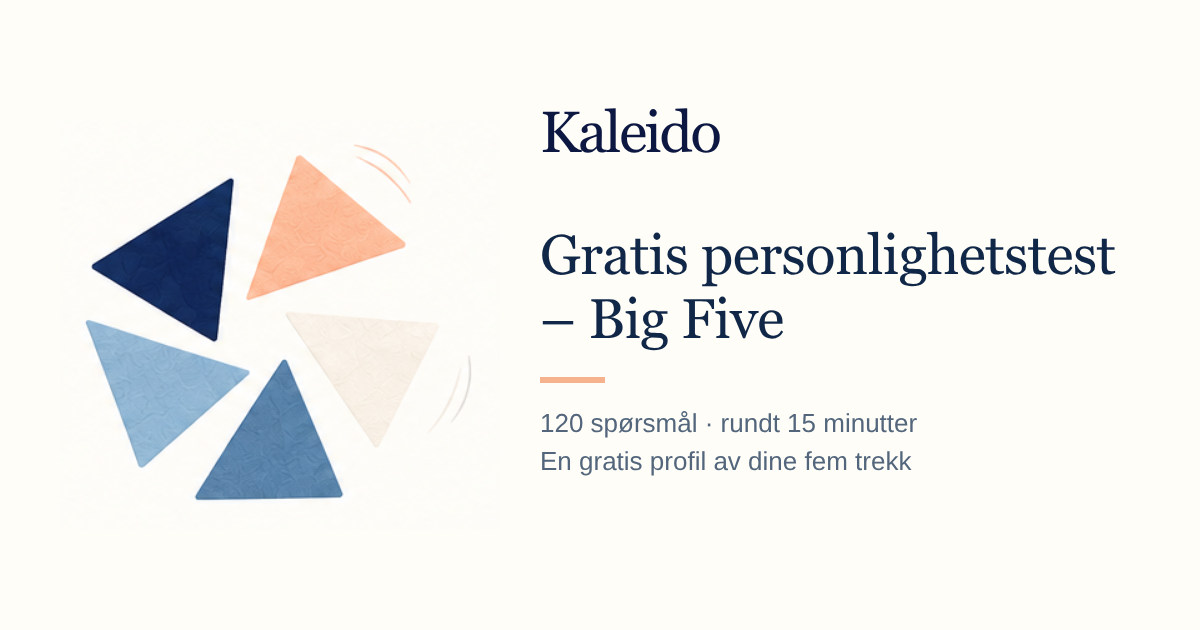
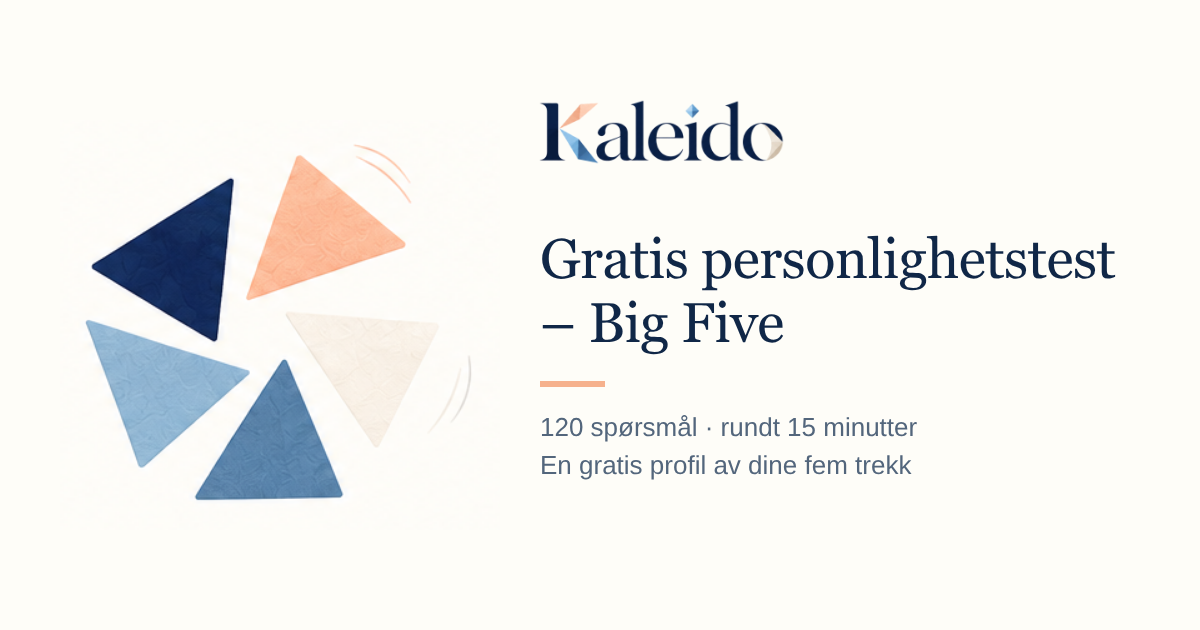
New Kaleido wordmark in the header, footer, sign-in, offer sheet, share video and share images
Rune's new wordmark (faceted K, diamond i-dot, sand facet on the o) replaces the
Georgia text and the pinwheel beside it. The background is removed from his JPG
and the image cropped (kaleido-wordmark.webp for the app and video, a 2x PNG for
the share images). The pinwheel stays as app icon, loading animation and trait
navigation.

Claude-Session: https://claude.ai/code/session_01M5HHnEW34Vcqh6meLJ6wGL

diff --git a/app/ui.js b/app/ui.js
@@ -31,7 +31,7 @@ const esc=v=>String(v??'').replace(/[&<>"']/g,c=>({'&':'&amp;','<':'&lt;','>':'&
 const names={O:()=>tr('Openness','Åpenhet'),C:()=>tr('Conscientiousness','Planmessighet'),E:()=>tr('Extraversion','Ekstroversjon'),A:()=>tr('Agreeableness','Medmenneskelighet'),N:()=>tr('Emotional reactivity','Følelsesmessig reaktivitet')};
 const order=['O','C','E','A','N'];
 const anchors=()=>[tr('Very inaccurate','Stemmer svært dårlig'),tr('Moderately inaccurate','Stemmer nokså dårlig'),tr('Neither accurate nor inaccurate','Stemmer verken godt eller dårlig'),tr('Moderately accurate','Stemmer nokså godt'),tr('Very accurate','Stemmer svært godt')];
-const logo='<span class="mark" aria-hidden="true"><i></i><i></i><i></i><i></i><i></i></span>';
+const wordmark='<img class="wordmark" src="assets/design/kaleido-wordmark.webp" alt="" width="562" height="150">';
 const button=(label,url,secondary=false)=>`<a class="button${secondary?' secondary':''}" href="${url}">${label}<span aria-hidden="true">→</span></a>`;
 function save(){try{sessionStorage.setItem(KEY,JSON.stringify({answers,index}));}catch{storageAvailable=false;const status=document.querySelector('#backup-status');if(status)status.textContent=tr('This browser cannot save progress. Download an answer file before leaving.','Nettleseren kan ikke lagre fremdrift. Last ned en svarfil før du forlater siden.');}document.querySelector('#backup-save')?.removeAttribute('disabled');}
 function downloadAnswers(){
@@ -62,7 +62,7 @@ function name(d){return content.domains?.[d.code]?.name||names[d.code]?.()||d.na
 function scale(d){return `<div class="score-row"><div class="score-top"><strong>${esc(name(d))}</strong><span>${Number(d.mean).toFixed(2)} / 5</span></div><div class="track" role="img" aria-label="${esc(name(d))}: ${Number(d.mean).toFixed(2)} / 5"><span style="width:${Math.max(0,Math.min(100,d.position))}%"></span></div><div class="score-scale"><span>${tr('Lower endorsement','Lavere tilslutning')}</span><span>${tr('Higher endorsement','Høyere tilslutning')}</span></div></div>`;}
 function notice(){return demo?`<div class="notice demo">${tr('Synthetic example — these are invented answers, not your personal results.','Syntetisk eksempel — svarene er oppdiktet og er ikke dine personlige resultater.')}</div>`:'';}
 function interpretation(){return report?.norms?tr('Each bar shows a percentile: roughly where your score sits among US online respondents who took the English test, with equal scores shared in the ranking. A percentile is not a percentage of a trait, a diagnosis, or a measure of how certain the result is. The words lower, middle and higher follow the percentile: below 30 is lower, above 70 is higher. Traits are tendencies, and context matters.','Hver stolpe viser en persentil: omtrent hvor skåren din ligger blant amerikanske nettdeltakere som tok den engelske testen, der like skårer deles i rangeringen. En persentil er ikke prosent av et trekk, en diagnose eller et mål på hvor sikker målingen er. Ordene lavere, midt og høyere følger persentilen: under 30 er lavere, over 70 er høyere. Trekk er tendenser, og situasjonen betyr noe.'):tr('These scales describe your answers, not your rank among other people. The bar maps the mean from 1 to 5 onto its possible range; it is not a percentile. Traits are tendencies, and context matters.','Skalaene beskriver svarene dine, ikke plasseringen din sammenlignet med andre. Stolpen viser gjennomsnittet ditt på skalaen fra 1 til 5; den er ikke en persentil. Trekk er tendenser, og situasjonen betyr noe.');}
-function updateShell(){document.documentElement.lang=language==='no'?'nb':'en';document.title=tr('Free Big Five personality test – 120 questions | Kaleido','Gratis personlighetstest (Big Five) – 120 spørsmål | Kaleido');document.querySelector('nav').innerHTML=`<a href="#method">${tr('The science','Faglig grunnlag')}</a><a href="#privacy">${tr('Privacy','Personvern')}</a>${account.enabled()||devMode()||answersComplete()?`<a href="#account">${tr('My profile','Min profil')}</a>`:''}<a class="small-button" href="#test">${tr('Take the test','Ta testen')} →</a><a class="d-exit" href="#home">${tr('Exit the test','Avslutt testen')}</a>`;document.querySelector('.skip').textContent=tr('Skip to content','Hopp til innhold');document.querySelector('footer').innerHTML=`<a class="footer-brand" href="#home" aria-label="Kaleido">${logo}<b>Kaleido</b> <span>${tr('Your personality, in context.','Personligheten din, i sammenheng.')}</span></a><div><label>${tr('Language','Språk')} <select id="language" aria-label="${tr('Language','Språk')}"><option value="en" ${language==='en'?'selected':''}>English</option><option value="no" ${language==='no'?'selected':''}>Norsk bokmål</option></select></label><label>${tr('Country','Land')} <select id="country" aria-label="${tr('Country','Land')}"><option value="US" ${country==='US'?'selected':''}>USA · USD</option><option value="NO" ${country==='NO'?'selected':''}>Norge · NOK</option></select></label></div><div><button class="text-button" id="backup-save" ${Object.keys(answers).length?'':'disabled'}>${tr('Save my answers to a file','Lagre svarene mine i en fil')}</button><button class="text-button" id="backup-open">${tr('Restore saved answers','Hent lagrede svar')}</button><input id="backup-restore" type="file" accept=".json,application/json" hidden><p id="backup-status" role="status">${esc(backupMessage)||(storageAvailable?'':tr('Progress cannot be saved in this tab. Download an answer file before leaving.','Fremdrift kan ikke lagres i fanen. Last ned en svarfil før du forlater siden.'))}</p><a href="#method">${tr('Method & sources','Metode og kilder')}</a><a href="#privacy">${tr('Privacy','Personvern')}</a><button id="clear-data" class="text-button">${tr('Clear my answers','Slett svarene mine')}</button></div><p>${tr('Preview. Country and language initially follow your browser language; change them independently above. No location tracking.','Forhåndsvisning. Land og språk velges først ut fra nettleserspråket; du kan endre dem hver for seg ovenfor. Ingen stedssporing.')}</p>`;document.querySelector('#backup-open').onclick=()=>document.querySelector('#backup-restore').click();document.querySelector('#backup-save').onclick=downloadAnswers;document.querySelector('#backup-restore').onchange=e=>restoreAnswers(e.target.files[0]);const controls=document.createElement('div');controls.className='locale-bar';controls.innerHTML=`<label>${tr('Language','Språk')} <select id="header-language" aria-label="${tr('Language','Språk')}"><option value="en" ${language==='en'?'selected':''}>English</option><option value="no" ${language==='no'?'selected':''}>Norsk bokmål</option></select></label><label>${tr('Country','Land')} <select id="header-country" aria-label="${tr('Country','Land')}"><option value="US" ${country==='US'?'selected':''}>USA · USD</option><option value="NO" ${country==='NO'?'selected':''}>Norge · NOK</option></select></label>`;document.querySelector('.locale-bar')?.remove();document.querySelector('header').append(controls);document.querySelector('.menu-toggle')?.remove();const head=document.querySelector('header');head.classList.remove('menu-open');const toggle=document.createElement('button');toggle.type='button';toggle.className='menu-toggle';toggle.setAttribute('aria-expanded','false');toggle.setAttribute('aria-label',tr('Menu','Meny'));toggle.innerHTML='<span></span><span></span><span></span>';toggle.onclick=()=>toggle.setAttribute('aria-expanded',head.classList.toggle('menu-open'));head.append(toggle);document.querySelector('#header-language').onchange=async e=>{language=e.target.value;storePrefs();await load();};document.querySelector('#header-country').onchange=e=>{country=e.target.value;storePrefs();render(false);};document.querySelector('#language').onchange=async e=>{language=e.target.value;storePrefs();await load();};document.querySelector('#country').onchange=e=>{country=e.target.value;storePrefs();render(false);};document.querySelector('#clear-data').onclick=()=>{if(confirm(tr('Delete all your answers and results from this tab?','Slette alle svarene og resultatene dine fra denne fanen?'))){restoreToken++;answerToken++;busy=false;backupMessage='';answers={};index=0;report=null;demo=false;try{sessionStorage.removeItem(KEY);sessionStorage.removeItem(STEPS);}catch{}clearLife();clearCareer();location.hash='home';render();}};}
+function updateShell(){document.documentElement.lang=language==='no'?'nb':'en';document.title=tr('Free Big Five personality test – 120 questions | Kaleido','Gratis personlighetstest (Big Five) – 120 spørsmål | Kaleido');document.querySelector('nav').innerHTML=`<a href="#method">${tr('The science','Faglig grunnlag')}</a><a href="#privacy">${tr('Privacy','Personvern')}</a>${account.enabled()||devMode()||answersComplete()?`<a href="#account">${tr('My profile','Min profil')}</a>`:''}<a class="small-button" href="#test">${tr('Take the test','Ta testen')} →</a><a class="d-exit" href="#home">${tr('Exit the test','Avslutt testen')}</a>`;document.querySelector('.skip').textContent=tr('Skip to content','Hopp til innhold');document.querySelector('footer').innerHTML=`<a class="footer-brand" href="#home" aria-label="Kaleido">${wordmark} <span>${tr('Your personality, in context.','Personligheten din, i sammenheng.')}</span></a><div><label>${tr('Language','Språk')} <select id="language" aria-label="${tr('Language','Språk')}"><option value="en" ${language==='en'?'selected':''}>English</option><option value="no" ${language==='no'?'selected':''}>Norsk bokmål</option></select></label><label>${tr('Country','Land')} <select id="country" aria-label="${tr('Country','Land')}"><option value="US" ${country==='US'?'selected':''}>USA · USD</option><option value="NO" ${country==='NO'?'selected':''}>Norge · NOK</option></select></label></div><div><button class="text-button" id="backup-save" ${Object.keys(answers).length?'':'disabled'}>${tr('Save my answers to a file','Lagre svarene mine i en fil')}</button><button class="text-button" id="backup-open">${tr('Restore saved answers','Hent lagrede svar')}</button><input id="backup-restore" type="file" accept=".json,application/json" hidden><p id="backup-status" role="status">${esc(backupMessage)||(storageAvailable?'':tr('Progress cannot be saved in this tab. Download an answer file before leaving.','Fremdrift kan ikke lagres i fanen. Last ned en svarfil før du forlater siden.'))}</p><a href="#method">${tr('Method & sources','Metode og kilder')}</a><a href="#privacy">${tr('Privacy','Personvern')}</a><button id="clear-data" class="text-button">${tr('Clear my answers','Slett svarene mine')}</button></div><p>${tr('Preview. Country and language initially follow your browser language; change them independently above. No location tracking.','Forhåndsvisning. Land og språk velges først ut fra nettleserspråket; du kan endre dem hver for seg ovenfor. Ingen stedssporing.')}</p>`;document.querySelector('#backup-open').onclick=()=>document.querySelector('#backup-restore').click();document.querySelector('#backup-save').onclick=downloadAnswers;document.querySelector('#backup-restore').onchange=e=>restoreAnswers(e.target.files[0]);const controls=document.createElement('div');controls.className='locale-bar';controls.innerHTML=`<label>${tr('Language','Språk')} <select id="header-language" aria-label="${tr('Language','Språk')}"><option value="en" ${language==='en'?'selected':''}>English</option><option value="no" ${language==='no'?'selected':''}>Norsk bokmål</option></select></label><label>${tr('Country','Land')} <select id="header-country" aria-label="${tr('Country','Land')}"><option value="US" ${country==='US'?'selected':''}>USA · USD</option><option value="NO" ${country==='NO'?'selected':''}>Norge · NOK</option></select></label>`;document.querySelector('.locale-bar')?.remove();document.querySelector('header').append(controls);document.querySelector('.menu-toggle')?.remove();const head=document.querySelector('header');head.classList.remove('menu-open');const toggle=document.createElement('button');toggle.type='button';toggle.className='menu-toggle';toggle.setAttribute('aria-expanded','false');toggle.setAttribute('aria-label',tr('Menu','Meny'));toggle.innerHTML='<span></span><span></span><span></span>';toggle.onclick=()=>toggle.setAttribute('aria-expanded',head.classList.toggle('menu-open'));head.append(toggle);document.querySelector('#header-language').onchange=async e=>{language=e.target.value;storePrefs();await load();};document.querySelector('#header-country').onchange=e=>{country=e.target.value;storePrefs();render(false);};document.querySelector('#language').onchange=async e=>{language=e.target.value;storePrefs();await load();};document.querySelector('#country').onchange=e=>{country=e.target.value;storePrefs();render(false);};document.querySelector('#clear-data').onclick=()=>{if(confirm(tr('Delete all your answers and results from this tab?','Slette alle svarene og resultatene dine fra denne fanen?'))){restoreToken++;answerToken++;busy=false;backupMessage='';answers={};index=0;report=null;demo=false;try{sessionStorage.removeItem(KEY);sessionStorage.removeItem(STEPS);}catch{}clearLife();clearCareer();location.hash='home';render();}};}
 function storePrefs(){try{localStorage.setItem(PREF,JSON.stringify({language,country}));}catch{}}
 async function loadNorms(){try{const r=await fetch('data/norms-us.json');return r.ok?await r.json():null;}catch{return null;}}
 async function load(){const token=++loadToken;try{const paths=language==='no'?['data/questions-no.json','data/report-content-no.json']:['data/questions.json','data/report-content.json'];const data=await Promise.all(paths.map(async p=>{const r=await fetch(p);if(!r.ok)throw Error(p);return r.json();}));if(norms===undefined)norms=await loadNorms();if(token!==loadToken)return;questions=data[0];content=data[1];if(questions.length!==120)throw Error('Expected 120 questions');answers=Object.fromEntries(Object.entries(answers).filter(([k,v])=>questions.some(q=>String(q.id)===k)&&Number.isInteger(v)&&v>=1&&v<=5));index=Math.min(Math.max(index,0),119);if(report)calculate(demo);render();}catch(e){if(token!==loadToken)return;main.innerHTML=`<div class="error"><h1>${tr('A small interruption','En liten avbrytelse')}</h1><p>${tr('The assessment could not load. Please serve the app through its local web server and try again. Your existing answers have not been cleared.','Testen kunne ikke lastes. Åpne appen gjennom den lokale nettserveren og prøv igjen. Lagrede svar er ikke slettet.')}</p><button class="button" id="retry">${tr('Try again','Prøv igjen')}</button></div>`;document.querySelector('#retry').onclick=load;console.error(e);}}
@@ -370,7 +370,7 @@ function openOfferSheet(chosen='plus'){document.querySelector('dialog.d-osheet')
   const amt=id=>`<span class="d-opay-amt">${tiers.find(t=>t.id===id).price}</span>`;
   const tier=t=>`<label class="d-ocard d-otier is-${t.id}"><input type="radio" name="osheet-tier" value="${t.id}" data-href="${t.href}" ${t.id===chosen?'checked':''}>${t.flag?`<p class="d-offer-recommended">${t.flag}</p>`:''}<img class="d-ocard-piece" src="assets/design/logo-piece-${t.piece}.webp" alt="" aria-hidden="true"><span class="d-otier-check" aria-hidden="true"></span><span class="d-otier-text"><span class="d-otier-title">${t.title}</span><ul>${t.lines.map(l=>`<li>${l}</li>`).join('')}</ul></span><span class="d-otier-side"><span class="d-ocard-price">${t.price}</span><button type="button" class="d-otier-more" aria-expanded="false" aria-controls="otier-all-${t.id}" aria-label="${tr('Everything included','Alt som er med')}: ${t.title}"><span class="d-gem-plus" aria-hidden="true"></span></button></span><ul class="d-otier-all" id="otier-all-${t.id}" hidden>${t.more.map(l=>`<li>${l}</li>`).join('')}</ul></label>`;
   dlg.innerHTML=`<div class="d-osheet-box"><button type="button" class="d-osheet-close" aria-label="${tr('Close','Lukk')}"><span aria-hidden="true">×</span></button>
-    <p class="d-osheet-brand" aria-hidden="true"><span class="d-osheet-logo"></span><b>Kaleido</b></p><h2 id="osheet-title">${tr('Choose your report','Velg rapporten din')}</h2>${offerTeaser()}
+    <p class="d-osheet-brand" aria-hidden="true">${wordmark}</p><h2 id="osheet-title">${tr('Choose your report','Velg rapporten din')}</h2>${offerTeaser()}
     <div class="d-osplit"><div class="d-otiers" role="radiogroup" aria-label="${tr('Report','Rapport')}">${tiers.map(tier).join('')}</div>
     <div class="d-opay"><p class="d-opay-h">${tr('Pay with','Betal med')}</p>${methods.map(([label,k])=>`<a class="d-opay-btn is-${k}" href="${tiers.find(t=>t.id===chosen).href}">${label} <span class="d-opay-go">${amt(chosen)}<span aria-hidden="true">→</span></span></a>`).join('')}<p class="d-osheet-terms">${tr('One payment. No subscription.','Én betaling. Ingen abonnement.')}</p>${country==='NO'?`<p class="d-opay-consent">${tr('The report opens right away. By paying you agree to this and accept that the right of withdrawal then lapses.','Rapporten åpnes med en gang. Ved å betale samtykker du til det og godtar at angreretten da faller bort.')}</p>`:''}<p class="d-opay-secure">${tr('Secure payment with','Sikker betaling med')} ${PAY_MARKS.stripe}<span>Stripe</span></p></div></div>
     <p class="d-osheet-foot"><a href="#offer" data-full-offer>${tr('See everything included','Se alt som er med')}</a><span>${tr('Preview: opens for free.','Forhåndsvisning: åpnes gratis.')}</span></p></div>`;
@@ -526,7 +526,7 @@ const askSignIn=()=>account.enabled()?accountReady&&!accountUser:devMode();
 // Routes that show the person's own results. With sign-in connected they need an account; the example report (#demo) does not.
 const gatedRoute=route=>['loading','results','offer','report','opening'].includes(route)||route.startsWith('report/')||route.startsWith('opening/')||route.startsWith('p=');
 const signInGate=route=>account.enabled()&&!demo&&!accountUser&&gatedRoute(route);
-function signInStep(){main.innerHTML=`<section class="page narrow d-signin-step"><div class="d-signin-step-brand" aria-hidden="true"><span class="d-signin-step-logo"></span><b>Kaleido</b></div><p class="d-signin-step-kicker">${tr('Test complete','Testen er fullført')}</p><h1>${tr('Save your profile','Lagre profilen din')}</h1><p class="lead">${tr('Sign in to access your results on any device.','Logg inn for å se resultatene dine på alle enheter.')}</p>${signInButtons('save','loading')}${account.enabled()?'':`<p class="d-signin-optional"><a href="#loading">${tr('Preview only: continue without signing in','Bare forhåndsvisning: fortsett uten å logge inn')}</a></p>`}<a class="d-signin-privacy" href="#privacy">${tr('Privacy','Personvern')}</a></section>`;}
+function signInStep(){main.innerHTML=`<section class="page narrow d-signin-step"><div class="d-signin-step-brand" aria-hidden="true">${wordmark}</div><p class="d-signin-step-kicker">${tr('Test complete','Testen er fullført')}</p><h1>${tr('Save your profile','Lagre profilen din')}</h1><p class="lead">${tr('Sign in to access your results on any device.','Logg inn for å se resultatene dine på alle enheter.')}</p>${signInButtons('save','loading')}${account.enabled()?'':`<p class="d-signin-optional"><a href="#loading">${tr('Preview only: continue without signing in','Bare forhåndsvisning: fortsett uten å logge inn')}</a></p>`}<a class="d-signin-privacy" href="#privacy">${tr('Privacy','Personvern')}</a></section>`;}
 /** The sign-in providers switched on, as words: "Google", "Google or Apple", "Google, Apple or X". */
 function signInVia(){const n=account.providers().map(p=>p.label);return n.length<2?n.join(''):`${n.slice(0,-1).join(', ')} ${tr('or','eller')} ${n.at(-1)}`;}
 function accountPage(){main.innerHTML=`<article class="page narrow d-account-page"><p class="eyebrow">${tr('My profile','Min profil')}</p><h1>${tr('Your profile','Profilen din')}</h1><p class="lead">${tr(`Sign in with ${signInVia()} or by email to keep your profile and open it again on any device.`,`Logg inn med ${signInVia()} eller e-post for å ta vare på profilen og åpne den igjen på alle enheter.`)}</p><section class="d-account-panel" data-account="page" aria-live="polite"></section>${profileTools()}</article>`;paintAccount();document.querySelector('#profile-pdf')?.addEventListener('click',()=>{printNext=true;location.hash='report/overview';});document.querySelector('#profile-save')?.addEventListener('click',downloadAnswers);document.querySelector('#email-form')?.addEventListener('submit',sendProfile);const to=document.querySelector('#email-to');if(to&&accountUser?.email)to.value=accountUser.email;}

diff --git a/app/design.css b/app/design.css
@@ -2,14 +2,12 @@
 :root{--title:#0c1742;--sky:#e6f0f8;--warm:#fdeee5}
 .sr-only{position:absolute;width:1px;height:1px;overflow:hidden;clip:rect(0 0 0 0);white-space:nowrap}
 
-/* Logo: textured mark (assets/design/logo-mark.webp) beside a live Georgia wordmark */
+/* Logo: the «Kaleido» wordmark image (assets/design/kaleido-wordmark.webp); the pinwheel mark stays as app icon and loading animation */
 .brand{display:flex!important;align-items:center;gap:12px;width:auto!important;height:62px!important;overflow:visible!important;text-decoration:none}
-.brand .mark{display:block;flex:none;background:url('assets/design/logo-mark.webp') center/contain no-repeat!important;mix-blend-mode:normal!important;transform:none!important;width:56px!important;height:56px!important}
-.brand b{display:inline!important;font:400 46px/1 Georgia,'Times New Roman',serif;letter-spacing:-.04em;color:var(--title)}
+.brand .wordmark,.footer-brand .wordmark,.d-signin-step-brand .wordmark,.d-osheet-brand .wordmark{display:block;flex:none;width:auto;max-width:none}.brand .wordmark{height:50px}
 .footer-brand{display:flex!important;align-items:center;gap:10px;width:auto!important;height:52px!important;overflow:visible!important}
-.footer-brand .mark{display:block;flex:none;background:url('assets/design/logo-mark.webp') center/contain no-repeat!important;mix-blend-mode:normal!important;transform:none!important;width:44px!important;height:44px!important}
-.footer-brand b{display:inline!important;font:400 34px/1 Georgia,'Times New Roman',serif;letter-spacing:-.04em;color:var(--title)}
-@media(max-width:700px){.brand{height:49px!important;gap:9px}.brand .mark{width:44px!important;height:44px!important}.brand b{font-size:36px}}
+.footer-brand .wordmark{height:40px}
+@media(max-width:700px){.brand{height:49px!important}.brand .wordmark{height:40px}}
 
 /* Header while answering: only "Exit the test", as in the design */
 .d-exit{display:none}
@@ -1035,8 +1033,7 @@ details[open] .d-acc-icon::after{transform:rotate(0)}
 /* Sign-in step after question 120, copied from Rune's chosen mockup (2026-10-16): logo + wordmark, one Google button, quiet skip */
 .d-signin-step{text-align:center;padding-top:64px}
 .d-signin-step-brand{display:flex;align-items:center;justify-content:center;gap:12px;margin:0 0 26px}
-.d-signin-step-logo{display:block;width:52px;height:52px;background:url('assets/design/logo-mark.webp') center/contain no-repeat}
-.d-signin-step-brand b{font:400 44px/1 Georgia,'Times New Roman',serif;letter-spacing:-.04em;color:var(--title)}
+.d-signin-step-brand .wordmark{height:60px}
 .d-signin-step-kicker{margin:0 0 14px;font-size:17px;color:#4f6c8a}
 .d-signin-step h1{font-size:clamp(40px,4.4vw,60px);margin:0 auto 18px}
 .d-signin-step .lead{max-width:560px;margin:0 auto;font-size:20px;color:#4f6c8a}
@@ -1050,7 +1047,7 @@ details[open] .d-acc-icon::after{transform:rotate(0)}
 .d-signin-optional a{color:inherit;text-decoration:none}
 .d-signin-optional a:hover{text-decoration:underline;text-underline-offset:3px}
 .d-signin-privacy{display:inline-block;margin:96px 0 10px;font-size:17px;color:#4f6c8a;text-underline-offset:4px}
-@media(max-width:700px){.d-signin-step{padding-top:40px}.d-signin-step-brand{gap:10px;margin-bottom:22px}.d-signin-step-logo{width:44px;height:44px}.d-signin-step-brand b{font-size:38px}.d-signin-step h1{font-size:40px}.d-signin-step .lead{font-size:17px}.d-signin-step .d-signin{margin:30px auto 26px}.d-signin-step .d-signin-btn{font-size:17px}.d-signin-privacy{margin-top:56px}}
+@media(max-width:700px){.d-signin-step{padding-top:40px}.d-signin-step-brand{margin-bottom:22px}.d-signin-step-brand .wordmark{height:50px}.d-signin-step h1{font-size:40px}.d-signin-step .lead{font-size:17px}.d-signin-step .d-signin{margin:30px auto 26px}.d-signin-step .d-signin-btn{font-size:17px}.d-signin-privacy{margin-top:56px}}
 
 /* Share button on the video itself (TikTok/Instagram style), always visible. */
 .d-share-frame{position:relative}
@@ -1901,9 +1898,8 @@ footer select,header.menu-open .locale-bar select,.d-account-page select{border:
 }
 /* The Kaleido logo at the top of the offer sheet (Rune 2026-10-18). */
 .d-osheet-brand{display:flex;align-items:center;justify-content:center;gap:10px;margin:0 0 6px}
-.d-osheet-logo{display:block;width:40px;height:40px;background:url('assets/design/logo-mark.webp') center/contain no-repeat}
-.d-osheet-brand b{font:400 30px/1 Georgia,serif;letter-spacing:-.03em;color:var(--title)}
-@media(max-width:700px){.d-osheet-brand{margin-bottom:4px}.d-osheet-logo{width:32px;height:32px}.d-osheet-brand b{font-size:25px}}
+.d-osheet-brand .wordmark{height:40px}
+@media(max-width:700px){.d-osheet-brand{margin-bottom:4px}.d-osheet-brand .wordmark{height:34px}}
 /* Payment brand marks on the methods (Rune 2026-10-18). */
 .d-opay-btn .d-paymark{width:auto;height:22px}
 .d-opay-btn.is-apple .d-paymark,.d-opay-btn.is-google .d-paymark{height:30px;margin:-4px 0}

diff --git a/app/index.html b/app/index.html
@@ -1,2 +1,2 @@
 <!doctype html>
-<html lang="en"><head><link rel="icon" href="assets/icons/favicon.ico" sizes="any"><link rel="icon" href="assets/icons/favicon.svg" type="image/svg+xml"><link rel="apple-touch-icon" href="assets/icons/apple-touch-icon.png"><meta charset="utf-8"><meta name="viewport" content="width=device-width, initial-scale=1"><meta name="theme-color" content="#102747"><title>Free Big Five personality test – 120 questions | Kaleido</title><meta name="description" content="Take a free Big Five personality test: 120 research-based questions, about 15 minutes, and a clear profile of your five traits. No sign-up needed."><link rel="stylesheet" href="styles.css"><link rel="stylesheet" href="design.css"><link rel="stylesheet" href="question.css"><script src="config.js"></script><script type="module" src="ui.js"></script></head><body><a class="skip" href="#main">Skip to content</a><header><a href="#home" class="brand" aria-label="Kaleido"><span class="mark" aria-hidden="true"><i></i><i></i><i></i><i></i><i></i></span><b>Kaleido</b></a><nav aria-label="Main navigation"><a href="#method">The science</a><a href="#privacy">Privacy</a><a class="small-button" href="#test">Take the test <span aria-hidden="true">→</span></a></nav></header><main id="main" tabindex="-1"><article class="page narrow seo-intro"><p class="eyebrow">Kaleido</p><h1>A free Big Five personality test</h1><p>Answer 120 research-based questions (IPIP-NEO-120) in about 15 minutes. You get a free profile of the five traits – openness, conscientiousness, extraversion, agreeableness and emotional reactivity – and can choose an optional in-depth report on work and everyday life.</p><a class="button" href="#test">Start the test <span aria-hidden="true">→</span></a></article></main><footer><a class="footer-brand" href="#home">Kaleido <span>Your personality, in context.</span></a><div><a href="#method">Method & sources</a><a href="#privacy">Privacy</a><button id="clear-data" class="text-button">Clear my answers</button></div><p>Research-based self-reflection. A local preview, with no purchases available.</p></footer><noscript>This assessment needs JavaScript to calculate your answers in your browser.</noscript></body></html>
+<html lang="en"><head><link rel="icon" href="assets/icons/favicon.ico" sizes="any"><link rel="icon" href="assets/icons/favicon.svg" type="image/svg+xml"><link rel="apple-touch-icon" href="assets/icons/apple-touch-icon.png"><meta charset="utf-8"><meta name="viewport" content="width=device-width, initial-scale=1"><meta name="theme-color" content="#102747"><title>Free Big Five personality test – 120 questions | Kaleido</title><meta name="description" content="Take a free Big Five personality test: 120 research-based questions, about 15 minutes, and a clear profile of your five traits. No sign-up needed."><link rel="stylesheet" href="styles.css"><link rel="stylesheet" href="design.css"><link rel="stylesheet" href="question.css"><script src="config.js"></script><script type="module" src="ui.js"></script></head><body><a class="skip" href="#main">Skip to content</a><header><a href="#home" class="brand"><img class="wordmark" src="assets/design/kaleido-wordmark.webp" alt="Kaleido" width="562" height="150"></a><nav aria-label="Main navigation"><a href="#method">The science</a><a href="#privacy">Privacy</a><a class="small-button" href="#test">Take the test <span aria-hidden="true">→</span></a></nav></header><main id="main" tabindex="-1"><article class="page narrow seo-intro"><p class="eyebrow">Kaleido</p><h1>A free Big Five personality test</h1><p>Answer 120 research-based questions (IPIP-NEO-120) in about 15 minutes. You get a free profile of the five traits – openness, conscientiousness, extraversion, agreeableness and emotional reactivity – and can choose an optional in-depth report on work and everyday life.</p><a class="button" href="#test">Start the test <span aria-hidden="true">→</span></a></article></main><footer><a class="footer-brand" href="#home" aria-label="Kaleido"><img class="wordmark" src="assets/design/kaleido-wordmark.webp" alt="" width="562" height="150"> <span>Your personality, in context.</span></a><div><a href="#method">Method & sources</a><a href="#privacy">Privacy</a><button id="clear-data" class="text-button">Clear my answers</button></div><p>Research-based self-reflection. A local preview, with no purchases available.</p></footer><noscript>This assessment needs JavaScript to calculate your answers in your browser.</noscript></body></html>

diff --git a/scripts/seo.js b/scripts/seo.js
@@ -10,7 +10,7 @@ export const pages={
     skip:'Skip to content',
     nav:'<a href="#method">The science</a><a href="#privacy">Privacy</a><a class="small-button" href="#test">Take the test <span aria-hidden="true">→</span></a>',
     main:'<article class="page narrow seo-intro"><p class="eyebrow">Kaleido</p><h1>A free Big Five personality test</h1><p>Answer 120 research-based questions (IPIP-NEO-120) in about 15 minutes. You get a free profile of the five traits – openness, conscientiousness, extraversion, agreeableness and emotional reactivity – and can choose an optional in-depth report on work and everyday life.</p><a class="button" href="#test">Start the test <span aria-hidden="true">→</span></a></article>',
-    footer:'<a class="footer-brand" href="#home">Kaleido <span>Your personality, in context.</span></a><div><a href="no">Norsk</a><a href="#method">Method & sources</a><a href="#privacy">Privacy</a><button id="clear-data" class="text-button">Clear my answers</button></div><p>Research-based self-reflection.</p>',
+    footer:'<a class="footer-brand" href="#home" aria-label="Kaleido"><img class="wordmark" src="assets/design/kaleido-wordmark.webp" alt="" width="562" height="150"> <span>Your personality, in context.</span></a><div><a href="no">Norsk</a><a href="#method">Method & sources</a><a href="#privacy">Privacy</a><button id="clear-data" class="text-button">Clear my answers</button></div><p>Research-based self-reflection.</p>',
     noscript:'This assessment needs JavaScript to calculate your answers in your browser.'},
   no:{path:'/no',file:'no.html',lang:'nb',locale:'nb_NO',alt:'en_US',image:'assets/og/kaleido-no.png',
     title:'Gratis personlighetstest (Big Five) – 120 spørsmål | Kaleido',
@@ -19,7 +19,7 @@ export const pages={
     skip:'Hopp til innhold',
     nav:'<a href="#method">Faglig grunnlag</a><a href="#privacy">Personvern</a><a class="small-button" href="#test">Ta testen <span aria-hidden="true">→</span></a>',
     main:'<article class="page narrow seo-intro"><p class="eyebrow">Kaleido</p><h1>Gratis personlighetstest basert på Big Five</h1><p>Svar på 120 forskningsbaserte spørsmål (IPIP-NEO-120) på rundt 15 minutter. Du får en gratis profil av de fem trekkene – åpenhet, planmessighet, ekstroversjon, medmenneskelighet og følelsesmessig reaktivitet – og kan velge en fordypningsrapport om arbeidsliv og hverdagsliv.</p><a class="button" href="#test">Start testen <span aria-hidden="true">→</span></a></article>',
-    footer:'<a class="footer-brand" href="#home">Kaleido <span>Personligheten din, i sammenheng.</span></a><div><a href="./">English</a><a href="#method">Metode og kilder</a><a href="#privacy">Personvern</a><button id="clear-data" class="text-button">Slett svarene mine</button></div><p>Forskningsbasert selvrefleksjon.</p>',
+    footer:'<a class="footer-brand" href="#home" aria-label="Kaleido"><img class="wordmark" src="assets/design/kaleido-wordmark.webp" alt="" width="562" height="150"> <span>Personligheten din, i sammenheng.</span></a><div><a href="./">English</a><a href="#method">Metode og kilder</a><a href="#privacy">Personvern</a><button id="clear-data" class="text-button">Slett svarene mine</button></div><p>Forskningsbasert selvrefleksjon.</p>',
     noscript:'Testen trenger JavaScript for å regne ut svarene dine i nettleseren.'}
 };
 const url=(p,site)=>site+(p==='/'?'/':p);

diff --git a/app/share-video.js b/app/share-video.js
@@ -182,7 +182,7 @@ export const PIECES = Object.keys(LOGO);
 
 export function loadPieces(base = 'assets/design/') {
   // Trait icons and the logo both use the logo pieces (Rune, 2026-10-16); 'sand' is the ivory piece.
-  const files = [...[...PIECES, 'sand'].map(p => [p, `logo-piece-${p === 'sand' ? 'ivory' : p}.webp`]), ...PIECES.map(p => [`logo-${p}`, `logo-piece-${p}.webp`])];
+  const files = [...[...PIECES, 'sand'].map(p => [p, `logo-piece-${p === 'sand' ? 'ivory' : p}.webp`]), ...PIECES.map(p => [`logo-${p}`, `logo-piece-${p}.webp`]), ['wordmark', 'kaleido-wordmark.webp']];
   return Promise.all(files.map(([p, file]) => new Promise(ok => {const img = new Image(); img.onload = () => ok([p, img]); img.onerror = () => ok([p, null]); img.src = base + file;}))).then(Object.fromEntries);
 }
 
@@ -262,10 +262,16 @@ function brush(ctx, x1, x2, y, color, k, alpha = 1) {
 function footer(ctx, imgs, a) {
   if (a <= 0) return;
   ctx.save(); ctx.globalAlpha = a;
-  ctx.fillStyle = INK; ctx.font = `400 52px ${SERIF}`; ctx.textAlign = 'left'; ctx.textBaseline = 'middle';
-  const x = W / 2 - (80 + ctx.measureText('Kaleido').width) / 2; // mark and name centred as one unit
-  logo(ctx, imgs, x + 28, H - 150, .2, 1, 1);
-  ctx.fillText('Kaleido', x + 80, H - 148);
+  const mark = imgs.wordmark;
+  if (mark) { // the «Kaleido» wordmark image, centred (Rune 2026-10-18)
+    const h = 64, w = h * mark.width / mark.height;
+    ctx.drawImage(mark, W / 2 - w / 2, H - 150 - h / 2, w, h);
+  } else { // fallback while the image is missing: pinwheel and name in Georgia
+    ctx.fillStyle = INK; ctx.font = `400 52px ${SERIF}`; ctx.textAlign = 'left'; ctx.textBaseline = 'middle';
+    const x = W / 2 - (80 + ctx.measureText('Kaleido').width) / 2;
+    logo(ctx, imgs, x + 28, H - 150, .2, 1, 1);
+    ctx.fillText('Kaleido', x + 80, H - 148);
+  }
   ctx.restore();
 }
 

diff --git a/docs/decisions.md b/docs/decisions.md
@@ -503,7 +503,15 @@ Registrert fra samtalen 11. oktober 2026. «Valgt» nedenfor viser brukerens utt
 - Rune har valgt «Kaleido» som produktnavn, inspirert av det kaleidoskopaktige logomerket med de fem trekantene. «Fem» (arbeidsnavnet) og «Cinko» ble vurdert først; «Cinko» ble forkastet samme dag.
 - Navnet står overalt brukeren ser det: sidetitler, ordmerket i topp og bunn, innloggingssiden, kjøpsvalget, e-posttekst, filnavn ved nedlasting (kaleido-profile/kaleido-profil, kaleido-report/kaleido-rapport, kaleido-answers.json), delingsvideoens sluttkort, og SEO (titler, og:site_name, JSON-LD).
 - Domenet er kaleidotest.com (Rune 2026-10-18; kaleido.com og kaleidoapp.com var tatt). `SITE_URL` har kaleidotest.com som standard og kan fortsatt overstyres i Vercel. bigfive.no er foreslått som norsk viderekoblingsadresse.
-- Ordmerket står i samme skrift som før: Georgia (live tekst, `.brand b` i app/design.css; Times New Roman som reserve). Logomerket med de fem trekantene er uendret.
+- Ordmerket stod først i samme skrift som før (Georgia, live tekst); samme dag erstattet av Runes nye ordmerke, se neste oppføring. Logomerket med de fem trekantene er uendret.
 - Delingsbildene heter nå app/assets/og/kaleido-en.png og kaleido-no.png og lages av scripts/og-images.cjs (krever at Georgia er installert).
 - Ordet «fem» (tallet) er ikke endret, f.eks. «Fem trekk. Din kombinasjon.» og «dine fem trekk». Interne nøkler (localStorage/sessionStorage `fem-…`, `window.FEM_CONFIG`, svarfilformatet `fem-answers-v1`) og fem-logo-reference.png er beholdt, så lagrede data og svarfiler fortsatt virker.
 - Eldre oppføringer i denne loggen og historiske notater (verification.md, docs/norms/overlevering-codex.md, research) beholder «Fem» som historikk. app/assets/fem-logo-reference.png er designreferansen med det gamle ordmerket; den vises ikke som ordmerke i appen.
+
+## 2026-10-18 – Nytt ordmerke for Kaleido
+
+- Rune valgte et nytt ordmerke («Let use that. Put it in»): marineblå serif «Kaleido» der K-ens armer er brettede trekanter (aprikos og himmelblå), i-prikken er en blå diamant og o-en har en sandfarget fasett.
+- Ordmerket er et bilde: app/assets/design/kaleido-wordmark.webp (562×150, brukes i appen og videoen) og kaleido-wordmark.png (1124×300, kilde for delingsbildene). Bakgrunnen fra Runes JPG er fjernet og bildet beskåret. Runes original er en JPG; en vektorfil (SVG) bør erstatte den når den finnes.
+- Ordmerket står alene i topplinjen, bunnteksten, innloggingssteget og kjøpsarket, og nederst i delingsvideoen. Pinwheel-logoen står ikke lenger ved siden av, siden ordmerket har sine egne fasetter. Pinwheel-logoen er fortsatt app-ikon/favikon, lasteanimasjon og trekknavigasjon.
+- Delingsbildene (app/assets/og/kaleido-*.png) er laget på nytt med ordmerket. Overskriften er fortsatt Georgia.
+- Denne oppføringen erstatter punktet om at ordmerket er live Georgia-tekst i oppføringen over.

diff --git a/docs/plan.md b/docs/plan.md
@@ -64,6 +64,6 @@ Jobbkapittel 2026-10-15 (prototype): «Din jobb, din profil» i Arbeidsliv (app/
 
 Hverdagskapittel 2026-10-16: «Din hverdag, dine relasjoner» i kapittelet Hverdagsliv og relasjoner (app/life.js, app/life-copy.js) med åtte spørsmål (pluss barnas alder når det er barn) og 178 regler, i samme oppsett som jobbkapittelet. Felles visning og stegvis spørsmålsflyt ligger i app/tailored-chapter.js. AI-skriving bruker samme endepunkt med `chapter: 'life'`. Kontrolleres med tests/life.test.js (også dekning på 400 realistiske profiler) og scripts/tailored-check.cjs. Gjenstår: teste med 5–10 personer, faglig gjennomgang av reglene, og de samme punktene om personvern og bruksbegrensning som for jobbkapittelet.
 
-Navnebytte 2026-10-18: produktet heter «Kaleido», domenet er kaleidotest.com (standard i scripts/seo.js). Gjenstår: kjøpe domenet (bare domene, ikke webhotell), legge det til i Vercel (Settings → Domains) med DNS hos registrar, eventuelt kaleidotest.no og bigfive.no som viderekobling.
+Navnebytte 2026-10-18: produktet heter «Kaleido», domenet er kaleidotest.com (standard i scripts/seo.js). Domenet er kjøpt (Rune 2026-10-18). Gjenstår: legge det til i Vercel (Settings → Domains) med DNS hos registrar, eventuelt kaleidotest.no og bigfive.no som viderekobling. Nytt ordmerke (bilde) er lagt inn samme dag; en SVG-versjon bør erstatte bildet når den finnes.
 
 SEO-grunnmur 2026-10-18: `/` (engelsk) og `/no` (norsk) med metadata, delingsbilder, statisk intro, robots.txt og sitemap.xml (scripts/seo.js, se beslutningsloggen). Gjenstår: registrere domenet i Google Search Console og Bing Webmaster Tools og sende inn sitemap.xml; legge `/no` til som tillatt omdirigeringsadresse i Supabase når innlogging slås på; egne adresser (ikke bare #-ruter) for metode- og personvernsidene senere, så de kan indekseres; vurdere om forsidens h1 («Ingen boks. Bare deg.») bør inneholde søkeordet; tilbakekoblinger (backlinks) er et eget markedsføringsarbeid.
